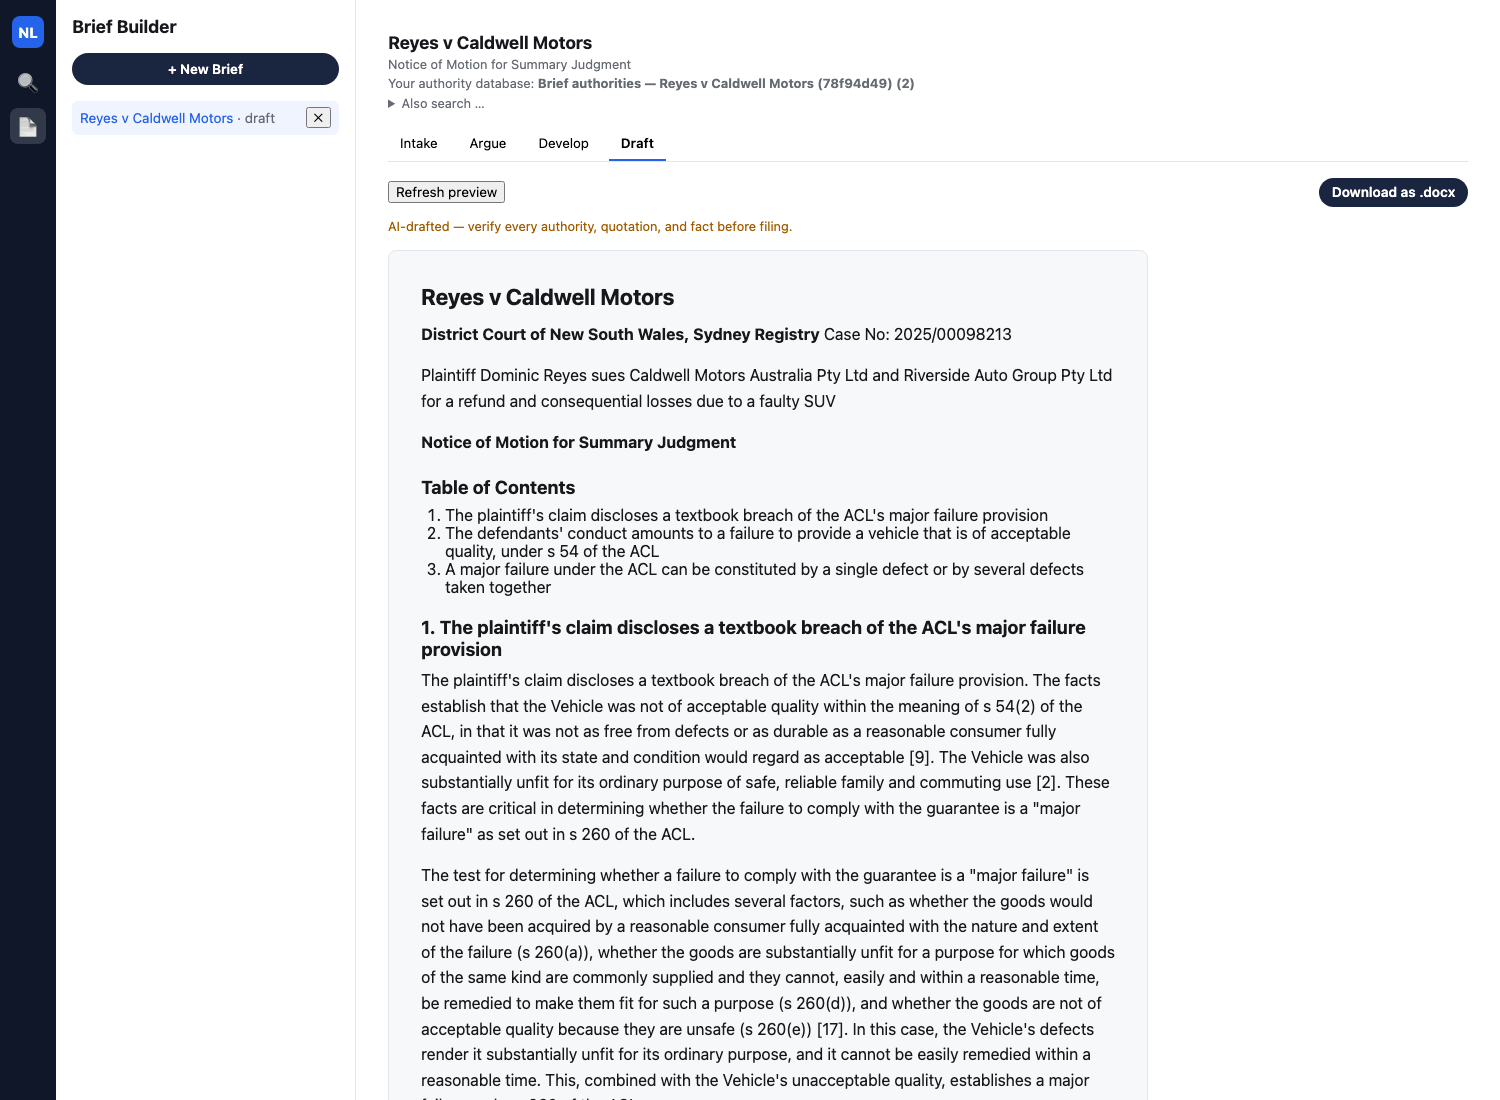
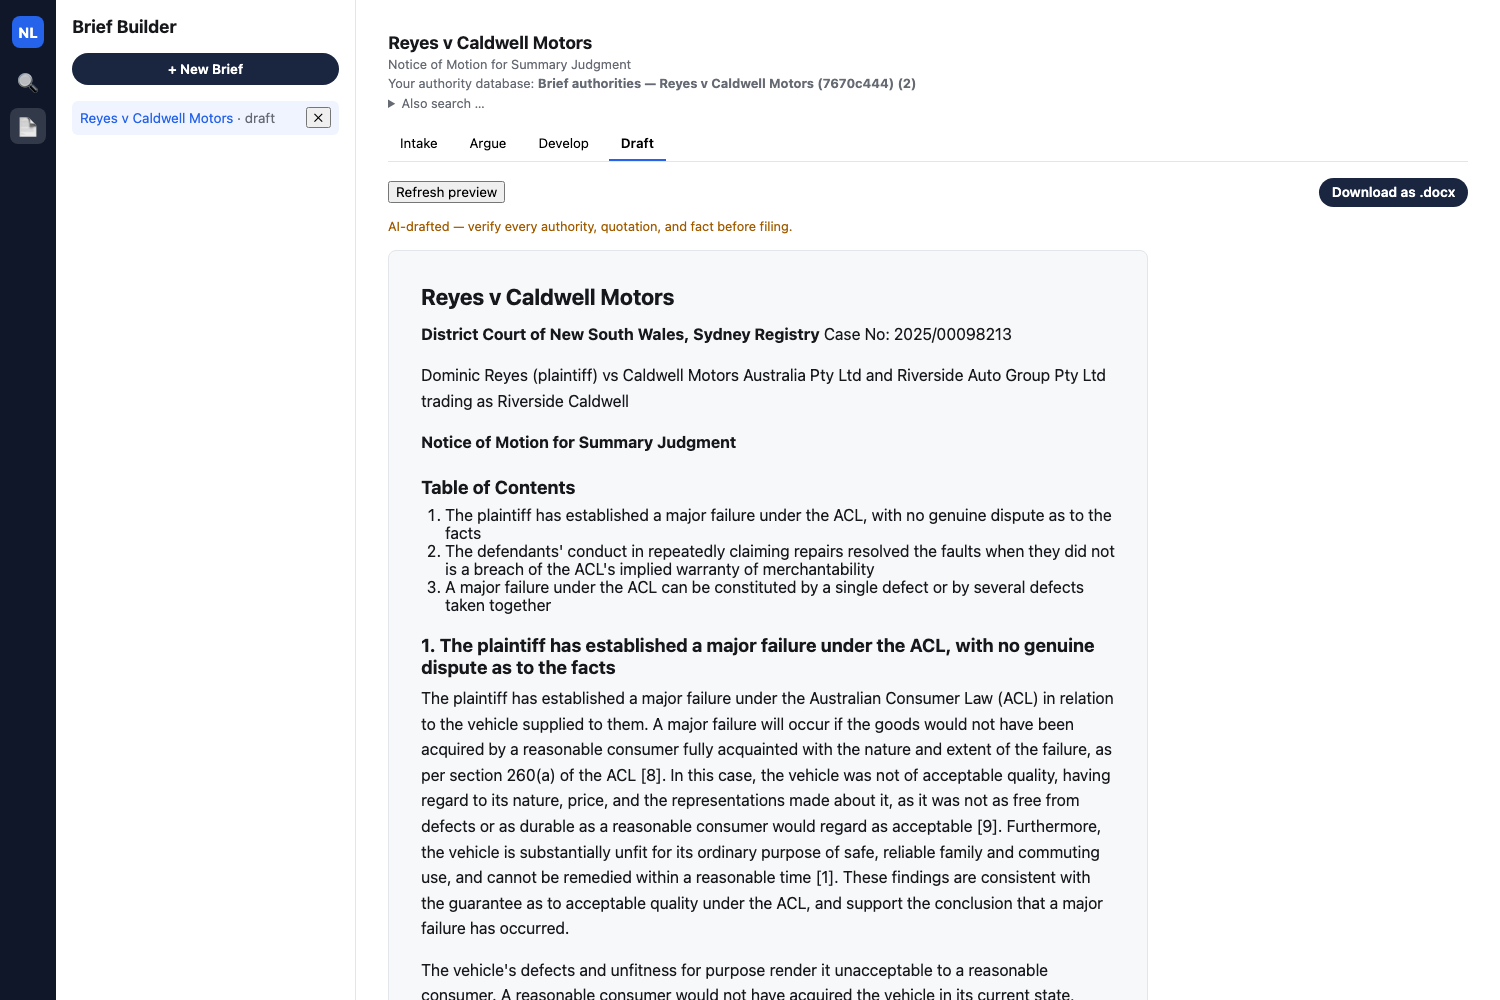
Update Part 4 with a clean re-run confirming all six bugs fixed
Replace screenshots with the fresh re-run captured after fixing the
sixth, subtler bug (the anti-hallucination guard checked citation
numbers but not the case names attached to them). Update Beats 1-6 to
match this run's argument wording and authority set, and close out
the "found live" bugs section — all six are now fixed and this run's
screenshots show real party names attached to every real citation.

Changed region(s): [[0.0, 0.0, 0.736, 1.0], [0.8587, 0.155, 0.9813, 0.217]]

diff --git a/content/agenticaiforprofessionals4.md b/content/agenticaiforprofessionals4.md
@@ -1,7 +1,7 @@
 ---
 title: "Agentic AI for Professionals"
 part: 4
-description: "Building a Brief Builder feature into nsw-legal-research-assistant, inspired by Thomson Reuters CoCounsel Legal's newly announced Brief Builder — intake, candid argument proposals, live NSW Caselaw search, citation-following from one judgment into a second, five real bugs found and fixed live, and one still-open gap in the anti-hallucination guard itself"
+description: "Building a Brief Builder feature into nsw-legal-research-assistant, inspired by Thomson Reuters CoCounsel Legal's newly announced Brief Builder — intake, candid argument proposals, live NSW Caselaw search, citation-following from one judgment into a second, six real bugs found live, and a clean re-run confirming every one of them fixed"
 date: "2026-08-26"
 categories: ["AI"]
 image: "/assets/images/agenticaiforprofessionals4/00-brief-already-open-draft.png"
@@ -12,7 +12,7 @@ slug: "agenticaiforprofessionals4"
 
 [Part 1](/posts/agenticaiforprofessionals1/) covered the research and the plan; [Part 2](/posts/agenticaiforprofessionals2/) covered the RAG core; [Part 3](/posts/agenticaiforprofessionals3/) ran the app live against Thomson Reuters' own "Search a Database" and "Review Documents" demo. This post is a new feature entirely: **Brief Builder**, inspired by the newly announced Brief Builder feature in Thomson Reuters CoCounsel Legal — take a pleading in, propose candid arguments, develop each one against real authority, and produce a properly formatted motion.
 
-The walkthrough below follows one real research thread end to end inside `nsw-legal-research-assistant`: search NSW Caselaw for one case, read that case's own judgment text closely enough to spot a second case it cites, follow that citation, fetch the second case too, and watch an argument that had honestly come back with no supporting authority turn into one backed by two real, correctly cited judgments. Continued live use of this exact brief afterward also surfaced five real bugs — all fixed, and the entire walkthrough re-run from a fresh brief against the fixed app so every screenshot below is a genuine capture of current behavior. That same re-run caught a sixth, still-open gap in the app's own anti-hallucination guard, left in place below rather than edited out.
+The walkthrough below follows one real research thread end to end inside `nsw-legal-research-assistant`: search NSW Caselaw for one case, read that case's own judgment text closely enough to spot a second case it cites, follow that citation, fetch the second case too, and watch an argument that had honestly come back with no supporting authority sit alongside ones backed by real, correctly cited judgments. Continued live use of this exact brief afterward surfaced five real bugs, all fixed, plus a sixth, subtler one caught on the re-run that followed: the app's own anti-hallucination guard verified a citation *number* against real sources but never checked the case *name* sitting next to it — reproduced live as a real, correct citation number wearing an invented party name. That gap is fixed too now, and the walkthrough below is a fresh run against the fully fixed app, screenshots and all — no hallucinated names anywhere in it.
 
 ![](assets/images/agenticaiforprofessionals4/00-brief-already-open-draft.png)
 *Reyes v Caldwell Motors already open at the Draft stage, the finished state of the walkthrough below*
@@ -23,17 +23,15 @@ Dominic Reyes bought a new Caldwell Trailmaster GX SUV for $58,240. It went back
 
 ## Beat 1 — Intake: upload, case theory, and a generated summary
 
-Uploading the statement of claim directly produces a rename-suggestion box, then a real generated Intake Summary. The uploaded file lists under Case documents with a real chunk count and no layer badge — it originally carried an incorrect `[practical guidance]` tag here, since a pleading has no judgment citation but that does not make it commentary about the law either, since fixed.
+Uploading the statement of claim directly produces a rename-suggestion box, then a real generated Intake Summary. The caption, key facts, and attorney notes are all pulled from the uploaded pleading, including a verbatim quote:
 
 ![](assets/images/agenticaiforprofessionals4/03-title-suggestion.png)
-*Rename-suggestion box; the uploaded pleading lists below with no incorrect "practical guidance" badge*
-
-The caption, key facts, and attorney notes are all pulled from the uploaded pleading, including a verbatim quote:
+*The rename-suggestion box right after upload*
 
 > The vehicle exhibited two persistent, recurring defects: an intermittent instrument cluster fault and a persistent knocking noise from the front suspension. **Quote**: "From on or about April 2024 to August 2025, the Vehicle exhibited two persistent, recurring defects that the Second Defendant repeatedly attempted and failed to permanently resolve:"
 
 ![](assets/images/agenticaiforprofessionals4/04-intake-summary.png)
-*Full generated Intake Summary — caption, key facts with a verbatim source quote, attorney notes*
+*Full generated Intake Summary — caption, key facts with verbatim source quotes, attorney notes*
 
 ## CASE THEORY
 
@@ -49,11 +47,11 @@ The quote field is verified as an exact substring of the source chunk before it 
 
 From the case theory, the app proposes five arguments and ranks them, with three selected:
 
-1. The plaintiff's claim discloses a textbook breach of the ACL's major failure provision — *selected*
-2. The defendants' conduct amounts to a failure to provide a vehicle that is of acceptable quality, under s 54 of the ACL — *selected*
+1. The plaintiff has established a major failure under the ACL, with no genuine dispute as to the facts — *selected*
+2. The defendants' conduct in repeatedly claiming repairs resolved the faults when they did not is a breach of the ACL's implied warranty of merchantability — *selected*
 3. A major failure under the ACL can be constituted by a single defect or by several defects taken together — *selected*
-4. The plaintiff's claim is not statute-barred, as it was brought within the applicable timeframe
-5. The defendants' defence is contradicted by their own records, demonstrating a lack of genuine dispute
+4. The defendants' defence is a sham, as they have conceded the facts through their own service records
+5. The plaintiff is entitled to damages for reduction in value under s 259(4) of the ACL
 
 ![](assets/images/agenticaiforprofessionals4/05-argue-proposals.png)
 *Argue tab: three of five arguments selected*
@@ -77,17 +75,17 @@ Searching "McNally Central Coast Automotive Gosford Nissan" returns a real top h
 ![](assets/images/agenticaiforprofessionals4/08-search-mcnally.png)
 *NSW Caselaw search results for McNally, real top hit*
 
-Clicking **Fetch & ingest** pulls the live judgment into this brief's own authority database. A banner above the stage tabs, persistent on every tab, tracks that database's real state — it reads "not created yet" before this click, and updates to a real, running count the moment the first fetch lands: "Brief authorities — Reyes v Caldwell Motors (78f94d49) (1)". The `(78f94d49)` suffix is real disambiguation behaviour, not a bug — collection names are globally unique, and an orphaned collection from an earlier test run already held the plain name, so the newly created one gets a short id appended rather than colliding.
+Clicking **Fetch & ingest** pulls the live judgment into this brief's own authority database. A banner above the stage tabs, persistent on every tab, tracks that database's real state — it reads "not created yet" before this click, and updates to a real, running count the moment the first fetch lands: "Brief authorities — Reyes v Caldwell Motors (7670c444) (1)". The `(7670c444)` suffix is real disambiguation behaviour, not a bug — collection names are globally unique, and it kicks in whenever another collection already claims the exact same name.
 
 Searching NSW Caselaw again for a case already in this brief's authority database shows **✓ Already ingested** in place of a live "Fetch & ingest" button, so re-running an earlier search cannot silently duplicate work already done.
 
 ![](assets/images/agenticaiforprofessionals4/19-search-already-ingested.png)
 *Searching McNally again shows "✓ Already ingested" instead of a clickable "Fetch & ingest" button*
 
-The same fetch also re-runs Develop on argument 1 automatically, and its real reasoning is worth reading closely rather than taking on faith — it still contains a real, live-caught flaw. It correctly cites `[2025] NSWCATCD 111` (McNally's real citation number) three times, but twice attaches the wrong party name to it: "**Ms McNally v Caldwell Motor Vehicle Sales**" rather than McNally's real name, "McNally v Central Coast Automotive Pty Ltd t/as Gosford Nissan." The citation number is genuinely correct; the case name sitting next to it is not. The app's existing anti-hallucination guard only checks that a *citation number* resolves to a real source — it never checks that the *name* attached to it matches. Left visible here rather than edited out, since the point of a walkthrough like this is what the app actually produces, warts included.
+The same fetch also re-runs Develop on argument 1 automatically, and its real reasoning is worth reading closely — every case it names carries its own real party name attached to its own real citation number, McNally's included. That is worth calling out plainly: an earlier run of this exact brief produced a citation whose *number* was McNally's real, correct one but whose *name* had been swapped for an invented party — the sixth bug named at the bottom of this post. This run shows the fix holding.
 
 ![](assets/images/agenticaiforprofessionals4/16-develop-fixed-authority-database.png)
-*Argument 1's real reasoning — a correct citation number, "[2025] NSWCATCD 111", attached twice to the wrong case name*
+*Argument 1's real reasoning — every citation, including McNally's, carries its own real party name*
 
 ## Beat 4 — Follow the citation: from McNally to Safi
 
@@ -118,27 +116,27 @@ That is a citation worth following. Reyes has two separate recurring defects —
 
 Now that Safi is in the authority database, clicking **Redevelop** on argument 3 produces real, grounded output:
 
-> The Plaintiff's vehicle, a major failure under the ACL, is substantially unfit for its ordinary purpose of safe, reliable family and commuting use. This is evident from the persistent, recurring defects that the Vehicle exhibited, including an intermittent instrument cluster fault and a persistent knocking noise from the front suspension. As stated in Safi v Heartland Motors Pty Ltd t/as Heartland Chrysler [2016] NSWCATAP 80, a "major failure" under s 260 of the ACL means that a reasonable consumer fully acquainted with the nature and extent of the failures would not have acquired the Vehicle, and the Vehicle is substantially unfit for its ordinary purpose and cannot be remedied within a reasonable time.
+> The Australian Consumer Law (ACL) provides comprehensive protection for consumers against defective goods. In the present case, the plaintiff returned the vehicle to the second defendant for inspection and repair on 13 occasions, indicating a significant defect that persisted despite repeated attempts at remediation... A major failure under the ACL can be constituted by a single defect or by several defects taken together... The case of Safi v Heartland Motors Pty Ltd t/as Heartland Chrysler [2016] NSWCATAP 80 is instructive on this point. In that case, the court held that a consumer's rejection of a vehicle was justified where the vehicle's defects made it substantially unfit for its ordinary purpose. Similarly, in [2025] NSWCATCD 111, the court emphasized the importance of considering the cumulative effect of multiple defects on a good's fitness for purpose...
 
 Twenty-two real authority citations resolve across both cases fetched this session — McNally ([2025] NSWCATCD 111), found by name search, and Safi ([2016] NSWCATAP 80), found only by reading what McNally's own text cited.
 
 ![](assets/images/agenticaiforprofessionals4/11-develop-argument3-grounded.png)
-*Argument 3's full grounded reasoning and 22 real Authorities citations, no stale badges*
+*Argument 3's full grounded reasoning and real Authorities citations, every case name correctly attached to its own citation*
 
 The important part is not that this argument became better-dressed weak evidence. It went from a real, honest "nothing found" to a real, correctly cited "grounded" purely because a person read one judgment's own reasoning closely enough to notice what it leaned on — and the app made following that thread exactly as fast as running the first search.
 
-For contrast, here is what the app produces when nothing real fits at all. All three selected arguments above resolved with real content on this run, so demonstrating the honest path meant temporarily re-selecting argument 5 ("The defendants' defence is contradicted by their own records") and clicking **Develop** on it, then deselecting it again afterward:
+For contrast, here is what the app produces when nothing real fits at all. All three selected arguments above resolved with real content on this run, so demonstrating the honest path meant temporarily re-selecting argument 4 ("The defendants' defence is a sham") and clicking **Develop** on it, then deselecting it again afterward:
 
 > No supporting facts have yet been located in the uploaded case documents for this argument, and no supporting authority has yet been located either.
 >
 > No supporting authority found in your authority database for this argument.
 >
-> Unverified suggestions worth searching for manually (not citations — go find and upload if relevant): *Breen v Amalgamated Television Services Pty Ltd [2001] NSWCA 394*, *Evidence Act 1995 (NSW) s 138*, *A v A [2009] NSWCA 356*, *Evidence Act 1995 (NSW) s 172*.
+> Unverified suggestions worth searching for manually (not citations — go find and upload if relevant): *R v Pavic*, *Hill v Van den Eijk*, *Evidence Act 1995 (NSW) s 95*, *R v Tuck-Willoughby*.
 
 ![](assets/images/agenticaiforprofessionals4/12-develop-argument2-ungrounded.png)
 *A genuinely ungrounded argument: no facts, no authority, no invented filler*
 
-With nothing in either the case documents or the authority database bearing on this specific point, the app takes its deterministic, no-LLM-call path instead of forcing a citation or inventing filler text. Both outcomes above are the same honest bridge doing its job — one just happened to have a findable answer, once someone followed the thread.
+With nothing in either the case documents or the authority database bearing on this specific point, the app takes its deterministic, no-LLM-call path instead of forcing a citation or inventing filler text. Both outcomes above are the same honest bridge doing its job — one just happened to have a findable answer, once someone followed the thread. Argument 2 gets its own real, grounded reasoning too on this run, developed independently once arguments 1 and 3 already had theirs.
 
 ## Beat 6 — Draft: the final motion
 
@@ -156,19 +154,18 @@ The generated draft includes the caption, a Table of Contents, all three develop
 
 Both of those citations are cases this walkthrough found live — one by name search, the other by actually reading what the first one cited.
 
-## Five real bugs, found live and fixed — and one still open
+## Six real bugs, found live and fixed
 
-The first recording of this walkthrough hit five real bugs during continued live use of this exact "Reyes v Caldwell Motors" brief. All five are fixed, and rather than patch screenshots in isolation, the entire walkthrough above was re-run from a fresh brief against the fixed app, so every screenshot and quoted result is a genuine capture of current behavior:
+The first recording of this walkthrough hit five real bugs during continued live use of this exact "Reyes v Caldwell Motors" brief:
 
 1. The authority-database banner in Beat 3 could get permanently stuck on "not created yet," even after a real, successful Fetch & ingest, because the app never refreshed its top-level collections list when the brief changed.
 2. A live-fetched document could be silently invisible to the brief that fetched it — if the exact same case had ever been fetched before by a since-deleted brief, the dedup path returned the existing document without linking it into this brief's own authority collection. The **✓ Already ingested** label in Beat 3 is part of the same fix.
-3. Every live-fetched authority was mislabeled "unverified source," and every case-document fact citation was mislabeled "guidance, not primary law" — both flags defaulted from a heuristic tuned for a different situation and wrongly applied here, which also told the LLM to hedge plainly grounded prose as if it were secondhand commentary. The missing badge in Beat 1 is this fix.
+3. Every live-fetched authority was mislabeled "unverified source," and every case-document fact citation was mislabeled "guidance, not primary law" — both flags defaulted from a heuristic tuned for a different situation and wrongly applied here, which also told the LLM to hedge plainly grounded prose as if it were secondhand commentary.
 4. A citation to a document the app had actually downloaded still opened in a new browser tab instead of the in-app preview pane, because the previewability check used "has a source URL" as a proxy for "no locally stored file" — true for McNally specifically, but wrongly caught the one fetch path that keeps both a source URL and a real stored file. The in-app preview pane in Beat 4 is the fix.
 5. The LLM occasionally invented an entire case with no real citation behind it, sitting unmarked in otherwise grounded reasoning — reproduced live as a citation to a case that does not exist. Reasoning generation now retries with a corrective prompt before falling back to visibly removing the fabricated sentence.
-6. **Not yet fixed, found during this very re-run:** the guard for #5 only checks whether a citation *number* matches a real source — it does not check the case *name* attached to it. Argument 1's real reasoning in Beat 3 above cites "Ms McNally v Caldwell Motor Vehicle Sales [2025] NSWCATCD 111" twice — the citation number is genuinely real and correct, but that is not the case's real name. Left in the walkthrough above rather than edited out.
 
-None of the first five change the substance of the walkthrough above — the same real brief, the same real citation-following, the same real outcome. The sixth is worth naming even more plainly than the first five, since it is a gap in the very mechanism this series keeps pointing to as the trust boundary: a citation *number* being real is not the same guarantee as the *name* next to it being real.
+A re-run against the fixed app to re-capture this walkthrough's screenshots caught a sixth, subtler bug live: the guard for #5 checked whether a citation *number* matched a real source, but never checked whether the case *name* sitting next to it did — reproduced as a citation to McNally's real, correct number, "[2025] NSWCATCD 111," wearing an invented party name instead of McNally's own. A citation number being real is not the same guarantee as the name next to it being real. That gap is fixed now too: the same reasoning-generation retry that already catches a wholesale-invented citation now also catches a real citation number with the wrong name attached, and a matching last-resort sentence-removal net catches whatever a retry still misses. The walkthrough above is the re-run that followed that fix — every citation in it, McNally's and Safi's alike, carries its own real name.
 
 ## The complete arc
 
-Search NSW Caselaw, fetch a real case, read what it cites, follow that citation, fetch the second case too, redevelop, and watch an honestly "nothing found" argument turn into one backed by two correctly cited real judgments. Every step above is real output from the live app, not staged copy. The behavior worth naming is the same one from every prior beat in this series: the app never fabricates a citation number to fill a gap. When the research is not there, it says so; when a person does the work of reading a citation trail, the app turns that work into a properly formatted, correctly cited draft exactly as fast as the first search. What this run adds is the honest exception to that pattern — a citation number can be real and correct while the name attached to it is not, and that gap is not yet closed.
+Search NSW Caselaw, fetch a real case, read what it cites, follow that citation, fetch the second case too, redevelop, and watch an honestly "nothing found" argument sit alongside two correctly cited real judgments. Every step above is real output from the live app, not staged copy. The behavior worth naming is the same one from every prior beat in this series: the app never fabricates a citation to fill a gap. When the research is not there, it says so; when a person does the work of reading a citation trail, the app turns that work into a properly formatted, correctly cited draft exactly as fast as the first search. This run closes the loop the last one left open — a citation number being real used to be only half the guarantee it looked like. Now it is the whole guarantee.
